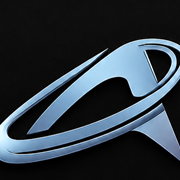
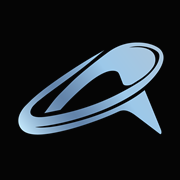
feat(marca): instalar el logotipo definitivo en vectorial
El logo anterior era un PNG de 1.5 MB con el fondo negro incrustado y el
emblema perdido entre mucho relleno.

- Se sustituye por el archivo oficial en SVG: 6 KB, fondo transparente y
  nitido a cualquier tamano. Se sirve sin optimizar porque Next no procesa
  vectores y asi no hace falta habilitar dangerouslyAllowSVG.
- Se conserva la version PNG solo para Open Graph: las redes no leen SVG.
- LogoMark calcula el alto desde la proporcion real del archivo
  (1622x1130) en vez de asumir un cuadrado.
- Favicon regenerado recortando el emblema sobre el negro de marca: 3.4 KB.
- El logotipo crece en portada y pie de pagina: al no tener relleno negro,
  el mismo ancho rendia menos presencia visual que antes.

diff --git a/src/components/shared/Logo.tsx b/src/components/shared/Logo.tsx
@@ -54,7 +54,13 @@ export function LogoLink({ className }: { className?: string }) {
   );
 }
 
-/** Logotipo completo (emblema + wordmark) tal como lo entregó la marca. */
+/**
+ * Logotipo completo (emblema + wordmark) tal como lo entregó la marca.
+ * `size` es el ancho; el alto sale de la proporción real del archivo.
+ *
+ * Va sin optimizar porque es un SVG local: Next no procesa vectores y
+ * servirlo tal cual evita tener que habilitar `dangerouslyAllowSVG`.
+ */
 export function LogoMark({
   className,
   size = 220,
@@ -69,9 +75,9 @@ export function LogoMark({
       src={SITE.logo}
       alt={`${SITE.name} — ${SITE.tagline}`}
       width={size}
-      height={size}
+      height={Math.round((size * SITE.logoHeight) / SITE.logoWidth)}
       priority={priority}
-      sizes={`${size}px`}
+      unoptimized
       className={cn("h-auto w-full max-w-full select-none", className)}
     />
   );

diff --git a/src/app/layout.tsx b/src/app/layout.tsx
@@ -33,13 +33,20 @@ export const metadata: Metadata = {
     siteName: SITE.name,
     title: `${SITE.name} — ${SITE.tagline}`,
     description: SITE.description,
-    images: [{ url: SITE.logo, width: 1240, height: 1240, alt: SITE.name }],
+    images: [
+      {
+        url: SITE.logoImage,
+        width: SITE.logoWidth,
+        height: SITE.logoHeight,
+        alt: SITE.name,
+      },
+    ],
   },
   twitter: {
     card: "summary_large_image",
     title: `${SITE.name} — ${SITE.tagline}`,
     description: SITE.description,
-    images: [SITE.logo],
+    images: [SITE.logoImage],
   },
   robots: { index: true, follow: true },
   // Los iconos salen de src/app/icon.png y apple-icon.png (7 KB en vez de

diff --git a/src/lib/config.ts b/src/lib/config.ts
@@ -17,7 +17,12 @@ export const SITE = {
   url: process.env.NEXT_PUBLIC_SITE_URL ?? "https://aurafit.com",
   locale: "es_MX",
   currency: "MXN",
-  logo: "/logo/aura-fit-logo.png",
+  /** Logotipo vectorial: nítido a cualquier tamaño y pesa 6 KB. */
+  logo: "/logo/aura-fit-logo.svg",
+  /** Versión en mapa de bits para Open Graph: las redes no leen SVG. */
+  logoImage: "/logo/aura-fit-logo.png",
+  logoWidth: 1622,
+  logoHeight: 1130,
 } as const;
 
 export const WHATSAPP = {

diff --git a/src/components/layout/Footer.tsx b/src/components/layout/Footer.tsx
@@ -23,8 +23,8 @@ export async function Footer() {
       <div className="container-aura relative py-14 md:py-16">
         <div className="grid gap-10 sm:grid-cols-2 lg:grid-cols-4">
           <div>
-            <div className="w-32">
-              <LogoMark size={128} />
+            <div className="w-40">
+              <LogoMark size={160} />
             </div>
             <p className="mt-4 max-w-xs text-sm leading-relaxed text-mist">
               {SITE.description}

diff --git a/src/components/shared/HeroSection.tsx b/src/components/shared/HeroSection.tsx
@@ -27,8 +27,8 @@ export function HeroSection() {
       />
 
       <div className="container-aura relative z-10 py-14 text-center md:py-20">
-        <motion.div {...rise(0)} className="mx-auto w-44 md:w-56">
-          <LogoMark size={224} priority />
+        <motion.div {...rise(0)} className="mx-auto w-60 md:w-80">
+          <LogoMark size={320} priority />
         </motion.div>
 
         <motion.p {...rise(0.1)} className="eyebrow mt-1">
